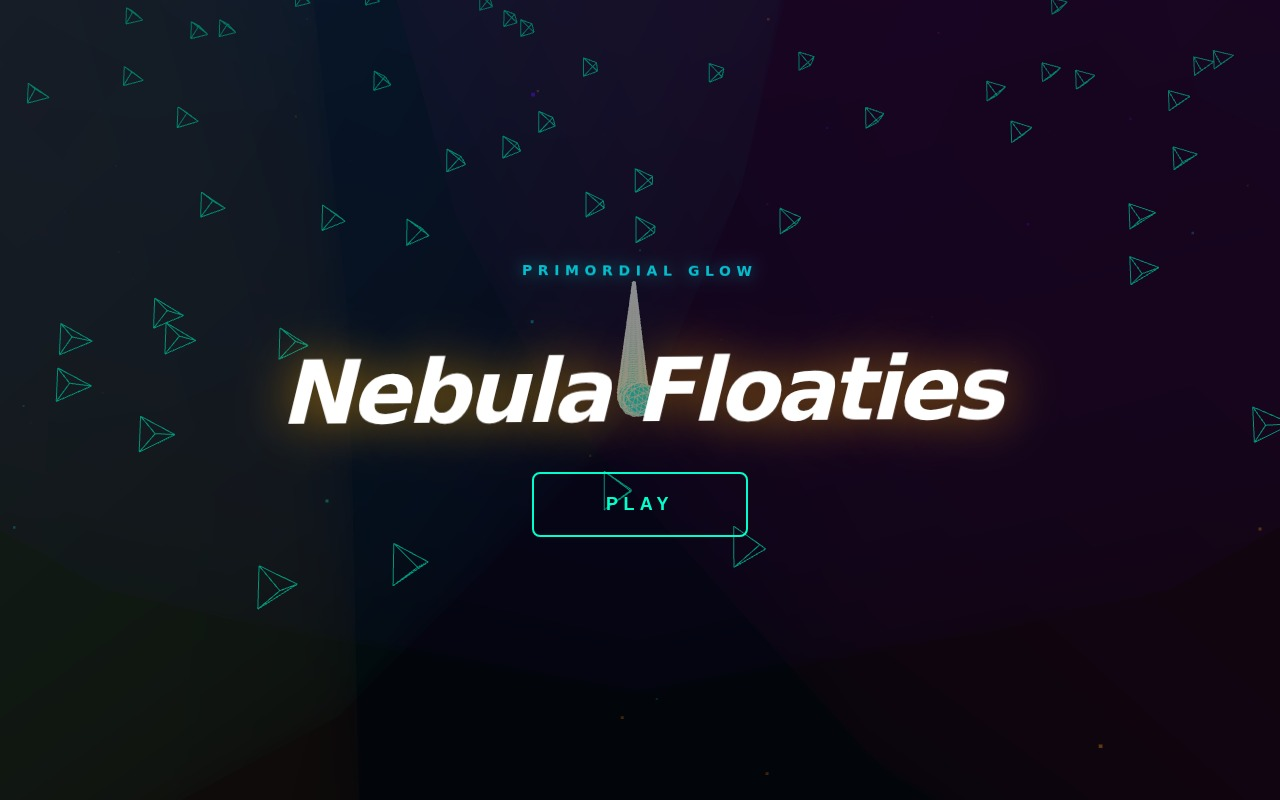
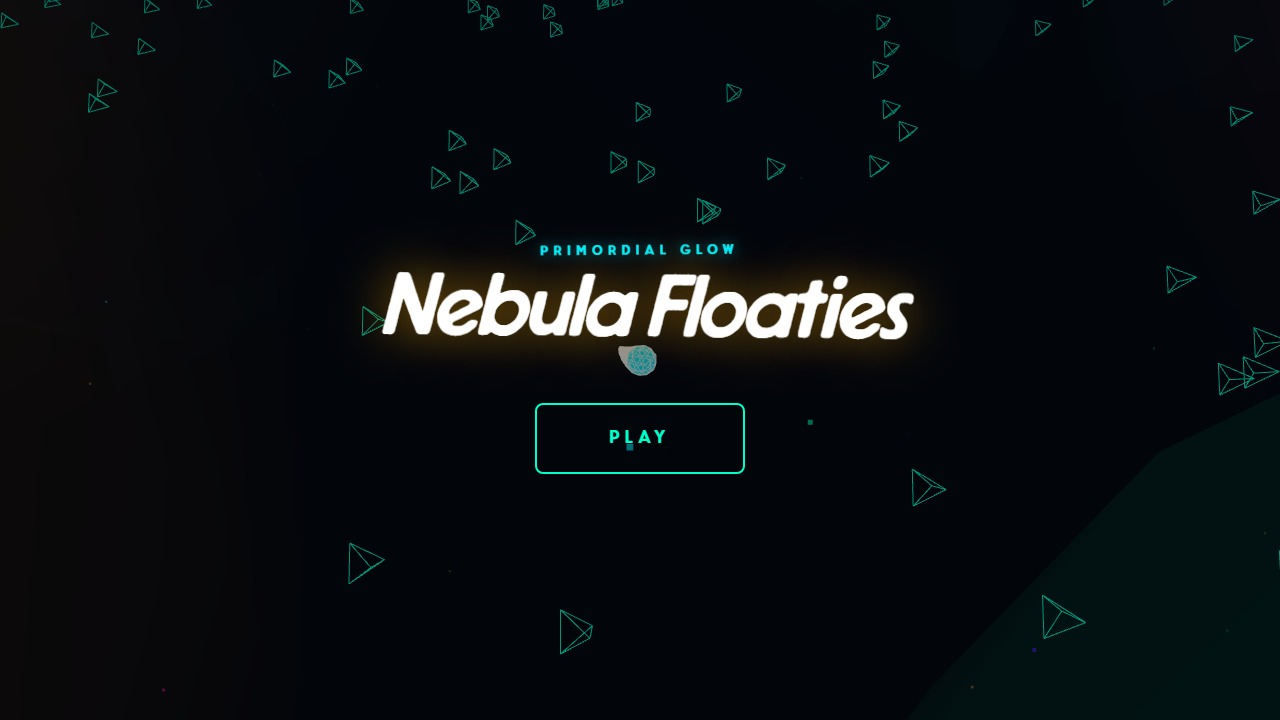
Updates to Floaties

diff --git a/experiments/floaties/index.html b/experiments/floaties/index.html
@@ -55,6 +55,7 @@
         }
 
         .subtitle {
+            font-family: 'Cartridge', ui-sans-serif, sans-serif;
             font-size: 0.875rem; text-transform: uppercase; letter-spacing: 0.4em; color: #00f2ff;
             font-weight: 800; margin-bottom: 0.75rem;
             animation: floatSubtitle 9s ease-in-out infinite;
@@ -70,6 +71,7 @@
             display: block;
         }
         #btn-play {
+            font-family: 'Cartridge', ui-sans-serif, sans-serif;
             background: transparent; border: 2.5px solid #00ffcc; color: #00ffcc;
             padding: 1.25rem 4.5rem; font-size: 1.125rem; font-weight: 900;
             text-transform: uppercase; letter-spacing: 0.3em; cursor: pointer;
@@ -111,6 +113,7 @@
     let dragOffset = new THREE.Vector3();
     let velocity = new THREE.Vector3(0, 0, 1.2);
     let camTarget = new THREE.Vector3();
+    let clickTarget = null;
 
     const PHM_COLORS = [0xffaa00, 0x00f2ff, 0xff00cc, 0x00ffaa, 0x5500ff, 0xff7700];
 
@@ -158,7 +161,8 @@
             this.baseSize = 9.0;
             this.segmentCount = 52;
             this.spacing = 2.2;
-            this.swimSpeed = 1.0;
+            this.spacingFrames = 2;
+            this.swimSpeed = 2.5;
             this.posHistory = [];
 
             const headColor = new THREE.Color(0x00f2ff);
@@ -196,10 +200,24 @@
 
             if (isPlaying) {
                 if (isTouching) {
+                    dragOffset.multiplyScalar(0.92);
                     const target = touchWorldPos.clone().sub(dragOffset);
-                    head.position.lerp(target, 0.15);
+                    const dir = target.clone().sub(head.position);
+                    const dist = dir.length();
+                    const speed = Math.min(Math.max(dist * 0.2, 2.5), 10);
+                    if (dist > 0.5) head.position.add(dir.normalize().multiplyScalar(speed));
+                } else if (clickTarget) {
+                    const dir = clickTarget.clone().sub(head.position);
+                    const dist = dir.length();
+                    if (dist < this.baseSize) {
+                        clickTarget = null;
+                    } else {
+                        const speed = Math.min(Math.max(dist * 0.12, 2.5), 8);
+                        head.position.add(dir.normalize().multiplyScalar(speed));
+                    }
                 } else {
-                    head.position.add(velocity.clone().multiplyScalar(this.swimSpeed));
+                    const coast = Math.max(this.swimSpeed * 0.97, 2.5);
+                    head.position.add(velocity.clone().multiplyScalar(coast));
                 }
             } else {
                 head.position.x += Math.sin(t * 0.4) * 0.15;
@@ -220,21 +238,21 @@
                 camera.position.add(wrap);
                 camTarget.add(wrap);
                 touchWorldPos.add(wrap);
-                dragOffset.add(wrap);
+                if (clickTarget) clickTarget.add(wrap);
             }
 
-            // Record head position into history whenever it has moved at least spacing units,
-            // so each body segment can follow the exact path the head traced.
-            if (this.posHistory.length === 0 || head.position.distanceTo(this.posHistory[0]) >= this.spacing) {
-                this.posHistory.unshift(head.position.clone());
-                if (this.posHistory.length > this.nodes.length + 1) this.posHistory.length = this.nodes.length + 1;
-            }
+            // Record every frame so segments can index by i * spacingFrames.
+            this.posHistory.unshift(head.position.clone());
+            const maxHistory = (this.nodes.length - 1) * this.spacingFrames + 1;
+            if (this.posHistory.length > maxHistory) this.posHistory.length = maxHistory;
 
             for (let i = 1; i < this.nodes.length; i++) {
-                if (!this.posHistory[i]) break;
+                const idx = i * this.spacingFrames;
+                const prevIdx = (i - 1) * this.spacingFrames;
+                if (idx >= this.posHistory.length) break;
                 const follow = this.nodes[i].mesh;
-                follow.position.copy(this.posHistory[i]);
-                const raw = new THREE.Vector3().subVectors(this.posHistory[i], this.posHistory[i - 1]);
+                follow.position.copy(this.posHistory[idx]);
+                const raw = new THREE.Vector3().subVectors(this.posHistory[idx], this.posHistory[prevIdx]);
                 if (raw.lengthSq() > 0.0001) {
                     const targetRot = new THREE.Quaternion().setFromUnitVectors(new THREE.Vector3(0, 0, 1), raw.normalize().negate());
                     follow.quaternion.slerp(targetRot, 0.3);
@@ -242,8 +260,10 @@
             }
 
             const delta = head.position.clone().sub(prevHeadPos);
-            if (delta.length() > 0.01) {
+            const deltaLen = delta.length();
+            if (deltaLen > 0.01) {
                 velocity.copy(delta).normalize();
+                this.swimSpeed = deltaLen; // carry momentum into coast mode
                 head.lookAt(head.position.clone().add(velocity));
             }
 
@@ -375,32 +395,64 @@
             rc.ray.intersectPlane(plane, touchWorldPos);
         }
 
-        const handleStart = (x, y) => {
+        const touchHandleStart = (x, y) => {
             if (!isPlaying) return;
             isTouching = true;
+            clickTarget = null;
             updateWorldCoords(x, y);
             dragOffset.copy(touchWorldPos).sub(snake.nodes[0].mesh.position);
         };
 
-        const handleMove = (x, y) => {
+        const touchHandleMove = (x, y) => {
             if (isTouching) updateWorldCoords(x, y);
         };
 
-        const handleEnd = () => isTouching = false;
+        const touchHandleEnd = () => isTouching = false;
 
         window.addEventListener('touchstart', (e) => {
-            handleStart(e.touches[0].clientX, e.touches[0].clientY);
+            touchHandleStart(e.touches[0].clientX, e.touches[0].clientY);
         }, { passive: true });
 
         window.addEventListener('touchmove', (e) => {
-            handleMove(e.touches[0].clientX, e.touches[0].clientY);
+            touchHandleMove(e.touches[0].clientX, e.touches[0].clientY);
             if (isPlaying) e.preventDefault();
         }, { passive: false });
 
-        window.addEventListener('touchend', handleEnd, { passive: true });
-        window.addEventListener('mousedown', (e) => handleStart(e.clientX, e.clientY));
-        window.addEventListener('mousemove', (e) => handleMove(e.clientX, e.clientY));
-        window.addEventListener('mouseup', handleEnd);
+        window.addEventListener('touchend', touchHandleEnd, { passive: true });
+
+        // Mouse: distinguish click from drag
+        let mouseDownCoords = null;
+        const DRAG_THRESHOLD = 6;
+
+        window.addEventListener('mousedown', (e) => {
+            if (!isPlaying) return;
+            mouseDownCoords = { x: e.clientX, y: e.clientY };
+        });
+
+        window.addEventListener('mousemove', (e) => {
+            if (!mouseDownCoords) return;
+            const dx = e.clientX - mouseDownCoords.x;
+            const dy = e.clientY - mouseDownCoords.y;
+            if (!isTouching && Math.sqrt(dx * dx + dy * dy) > DRAG_THRESHOLD) {
+                isTouching = true;
+                clickTarget = null;
+                updateWorldCoords(mouseDownCoords.x, mouseDownCoords.y);
+                dragOffset.copy(touchWorldPos).sub(snake.nodes[0].mesh.position);
+            }
+            if (isTouching) updateWorldCoords(e.clientX, e.clientY);
+        });
+
+        window.addEventListener('mouseup', (e) => {
+            if (!isPlaying || !mouseDownCoords) { mouseDownCoords = null; return; }
+            if (isTouching) {
+                isTouching = false;
+            } else {
+                // It was a click — set persistent target
+                updateWorldCoords(e.clientX, e.clientY);
+                clickTarget = touchWorldPos.clone();
+            }
+            mouseDownCoords = null;
+        });
 
         window.addEventListener('resize', () => {
             camera.aspect = window.innerWidth / window.innerHeight;
